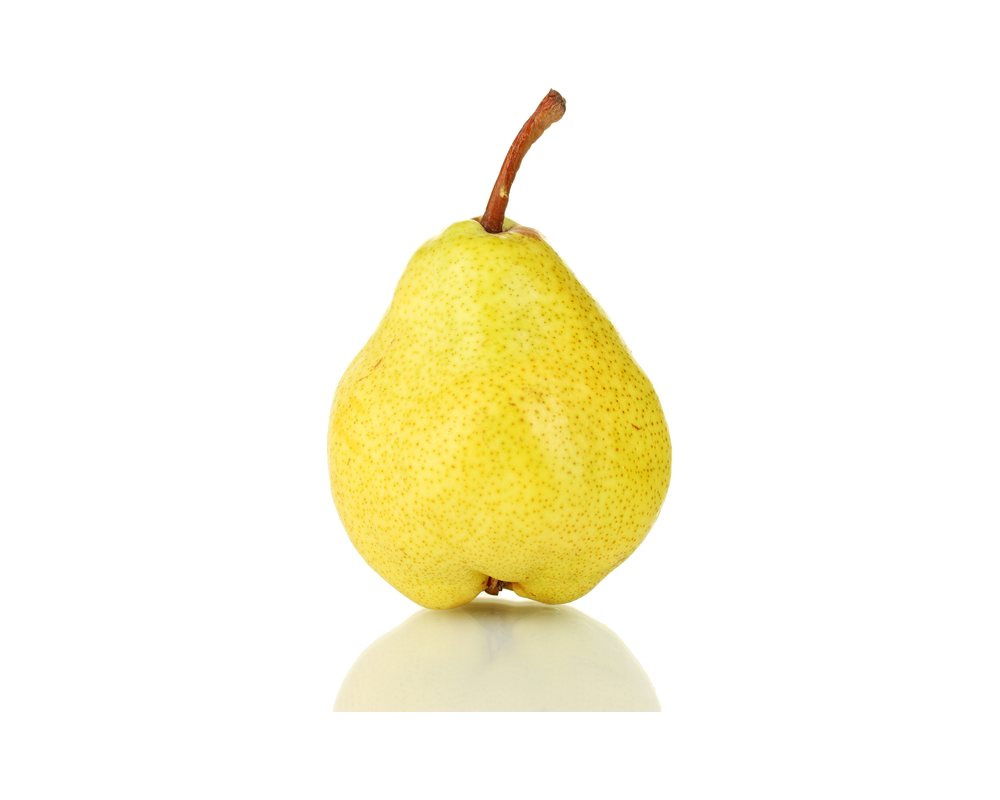
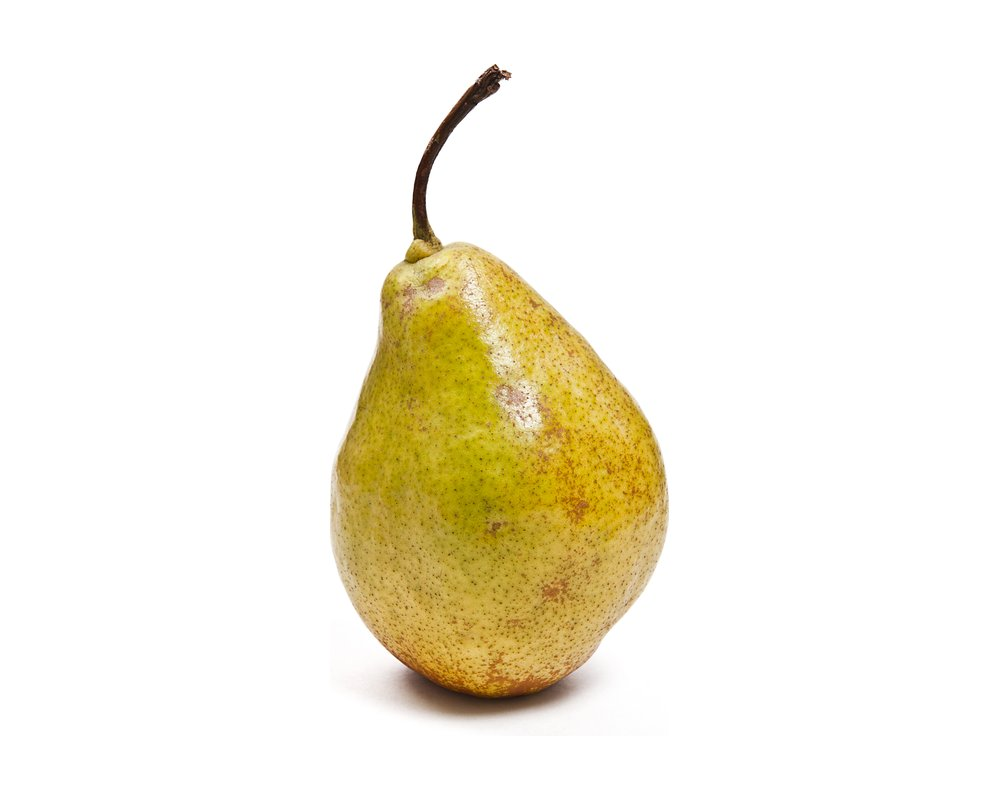
Foods: new photo for Pear
A whole ripe pear on white (Magnific premium by stock-19, picked by the app
owner), centered like the other single-food photos.

Claude-Session: https://claude.ai/code/session_01Hj6QJBTm6LNjTnyKhFQZB8

Changed region(s): [[0.31, 0.0625, 0.682, 0.9062]]

diff --git a/docs/photo-credits.md b/docs/photo-credits.md
@@ -268,7 +268,7 @@ app owner's paid Magnific (formerly Freepik) account and fetched with its API.
 | food-avocado          | Magnific (magnific.com), via API                                                           | filistimlyanin   | https://www.magnific.com/premium-photo/collection-avocados-isolated-white-background_51104783.htm                                                             | Magnific Premium license                | 2026-10-13 |
 | food-banana           | Magnific (magnific.com), via API                                                           | photolink1       | https://www.magnific.com/premium-photo/bananas_387553670.htm                                                                                                  | Magnific Premium license                | 2026-10-13 |
 | food-apple            | Magnific (magnific.com), via API                                                           | dwianggastocks   | https://www.magnific.com/premium-photo/fresh-organic-red-apple-delicious-fruit-side-view-isolated-white-background-clipping-path_138953129.htm                | Magnific Premium license                | 2026-10-13 |
-| food-pear             | Magnific (magnific.com), via API                                                           | pixel-shot.com   | https://www.magnific.com/premium-photo/ripe-pear-isolated-white_37377564.htm                                                                                  | Magnific Premium license                | 2026-10-13 |
+| food-pear             | Magnific (magnific.com), supplied by the app owner (cropped)                               | stock-19         | https://www.magnific.com/premium-photo/close-up-apple-against-white-background_109923388.htm                                                                  | Magnific Premium license                | 2026-10-19 |
 | food-blueberries      | Magnific (magnific.com), via API                                                           | meimanlifestore  | https://www.magnific.com/premium-photo/blueberries-isolated-white-background_366319791.htm                                                                    | Magnific Premium license                | 2026-10-13 |
 | food-strawberries     | Magnific (magnific.com), via API                                                           | a_a_88           | https://www.magnific.com/premium-photo/bunch-tasty-juicy-red-strawberries-amount-four-pieces-white-background_254496117.htm                                   | Magnific Premium license                | 2026-10-13 |
 | food-mango            | Magnific (magnific.com), via API                                                           | Twenty20         | https://www.magnific.com/premium-photo/mango_35376035.htm                                                                                                     | Magnific Premium license                | 2026-10-13 |
